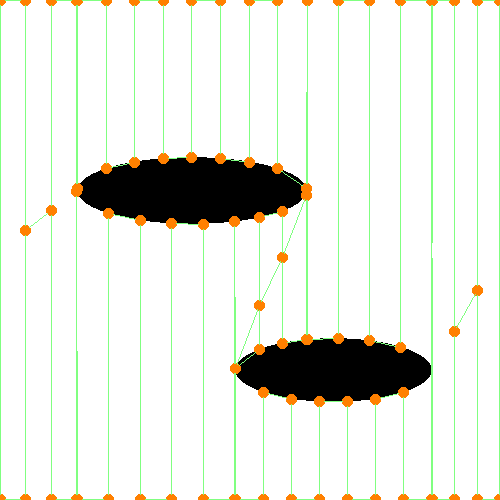
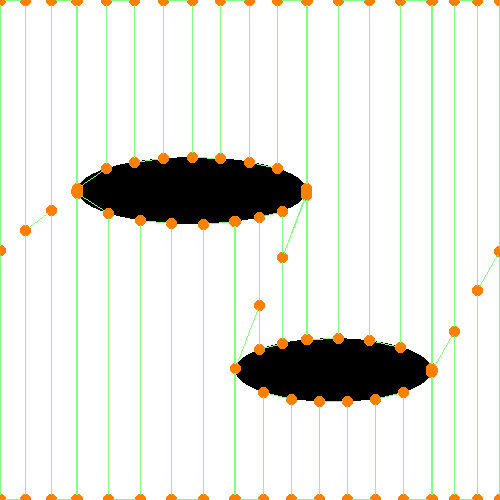
Made WayPoints use tour ordering.

diff --git a/WayPoints_libs/src/WayPoints.cpp b/WayPoints_libs/src/WayPoints.cpp
@@ -51,7 +51,9 @@ WayPoints::WayPoints(RegionData& data, ReebGraph& graph,
     cerr << "Start Genpath\n";
 #endif 
 
-    genPath_All(data, graph, wayPoints, desiredAltitudeM);
+    boost::optional<std::list<Edge> > tour(eulerCycle);
+    genPath_All(data, graph, wayPoints, desiredAltitudeM, -1,
+            ReebGraph::nullEdge(), tour);
 
 #ifdef DEBUG
     cerr << "End\n";
@@ -320,9 +322,9 @@ void WayPoints::convertTourToReebGraph(std::list<ReebEdge> &tour,
             << "), color: " << edge.color << ")\n";
 #endif 
 
-        nvf = dest.addVertex(rvf.x, rvf.y1, rvf.y2, rvf.color);
         nvs = dest.addVertex(rvs.x, rvs.y1, rvs.y2, rvs.color);
-#ifdef MAKE_CONTIN
+        nvf = dest.addVertex(rvf.x, rvf.y1, rvf.y2, rvf.color);
+#ifndef AFRL_CONTIN
         if (first) {
             addedEdge = dest.addEdge(nvs, nvf, edge.color);
             rvs_prev = rvs;
@@ -336,9 +338,15 @@ void WayPoints::convertTourToReebGraph(std::list<ReebEdge> &tour,
             rvs_prev = rvf;
         }
 #else
-        addedEdge = dest.addEdge(nvf, nvs, edge.color);
+        if (first) {
+            addedEdge = dest.addEdge(nvs, nvf, edge.color);
+            first = false;
+        } else {
+            addedEdge = dest.addEdge(nvf, nvs, edge.color);
+        }
 #endif
         addedReebEdge = &(dest.getEProp(addedEdge));
+        addedReebEdge->Eid = edge.Eid;
         addedReebEdge->topBoundary = edge.topBoundary;
         addedReebEdge->bottomBoundary = edge.bottomBoundary;
     }
@@ -353,9 +361,12 @@ void WayPoints::convertTourToReebGraph(std::list<ReebEdge> &tour,
 **/
 void WayPoints::genPath_All(RegionData& data, ReebGraph& graph,
         std::vector<Point2D>& buffer, double altitude, int firstVertexID,
-        Edge firstEdge)
+        Edge firstEdge, boost::optional<std::list<Edge> > tour)
     throw (const std::string&) 
 {
+    bool pickClosest = !tour;
+    std::list<Edge>::iterator itTour, itTourEnd;
+
     Point2D _lastPoint;
     Out_Edge_Iter oi, oi_end;
     Vertex _currVertex;
@@ -383,7 +394,17 @@ void WayPoints::genPath_All(RegionData& data, ReebGraph& graph,
     }
 
 
-    Edge _currEdge = (firstEdge==ReebGraph::nullEdge() ? *oi : firstEdge);
+    Edge _currEdge;
+    if (pickClosest) {
+        _currEdge = (firstEdge == ReebGraph::nullEdge() ? *oi : firstEdge);
+    } else {
+        itTour = tour->begin();
+        itTourEnd = tour->end();
+        if (itTour == itTourEnd) {
+            return;
+        }
+        _currEdge = (firstEdge==ReebGraph::nullEdge() ? *itTour++ : firstEdge);
+    }
     Edge _closestEdge = ReebGraph::nullEdge();
     Vertex _closestVertex = ReebGraph::nullVertex();
     unsigned int _numCellsCovered = 0;
@@ -422,60 +443,75 @@ void WayPoints::genPath_All(RegionData& data, ReebGraph& graph,
         _closestVertex = ReebGraph::nullVertex();
         minDistSqrd = numeric_limits<double>::max();
 
-        for(tie(ei, ei_end) = graph.getEdges(); ei != ei_end; ei++)
-        {
-            // Only want non-visited edges
-            if (graph.getEProp(*ei).color != 0) 
+        if (pickClosest) {
+
+            // OLD EDGE SELECTION
+
+            for(tie(ei, ei_end) = graph.getEdges(); ei != ei_end; ei++)
             {
-                continue;
+                // Only want non-visited edges
+                if (graph.getEProp(*ei).color != 0) 
+                {
+                    continue;
+                }
+
+                tie(_v1,_v2) = graph.getEndNodes(*ei);
+
+                if(graph.getVProp(_v1).x > graph.getVProp(_v2).x)
+                {
+                    swap(_v1,_v2);
+                }
+
+                // Scan for closest point on bottom boundary of edge
+                _c1 = _lastPoint.sdist(graph.getEProp(*ei).topBoundary.front());
+                _c2 = _lastPoint.sdist(graph.getEProp(*ei).topBoundary.back());
+
+                currDistSqrd = min(_c1,_c2);
+
+                if(currDistSqrd < minDistSqrd)
+                {
+                    _closestEdge = *ei;
+                    _closestVertex = (_c1<_c2? _v1:_v2);
+                    minDistSqrd = currDistSqrd;
+                    _upDir = false;
+                }
+
+                // Scan for closest point on top boundary of edge
+                _c1 = _lastPoint.sdist(graph.getEProp(*ei).bottomBoundary.front());
+                _c2 = _lastPoint.sdist(graph.getEProp(*ei).bottomBoundary.back());
+
+                currDistSqrd = min(_c1,_c2);
+
+                if(currDistSqrd < minDistSqrd) 
+                {
+                    _closestEdge = *ei;
+                    _closestVertex = (_c1 < _c2 ? _v1 : _v2);
+                    minDistSqrd = currDistSqrd;
+                    _upDir = true;
+                }
+
+                // Sanity check
+                if (_closestEdge == ReebGraph::nullEdge()) 
+                {
+                    throw string("genPath_All() - Closest edge in greedy algorithm"
+                            " found as a null edge");
+                }
+
+                // Update parameters
+                _currEdge = _closestEdge;
+                _currVertex = _closestVertex;
             }
 
-            tie(_v1,_v2) = graph.getEndNodes(*ei);
+        } else {
 
-            if(graph.getVProp(_v1).x > graph.getVProp(_v2).x)
-            {
-                swap(_v1,_v2);
-            }
+            // NEW EDGE SELECTION
 
-            // Scan for closest point on bottom boundary of edge
-            _c1 = _lastPoint.sdist(graph.getEProp(*ei).topBoundary.front());
-            _c2 = _lastPoint.sdist(graph.getEProp(*ei).topBoundary.back());
+            _currEdge = *itTour++;
+            tie(_v1,_v2) = graph.getEndNodes(_currEdge);
+            _currVertex = _v1;
 
-            currDistSqrd = min(_c1,_c2);
-
-            if(currDistSqrd < minDistSqrd)
-            {
-                _closestEdge = *ei;
-                _closestVertex = (_c1<_c2? _v1:_v2);
-                minDistSqrd = currDistSqrd;
-                _upDir = false;
-            }
-
-            // Scan for closest point on top boundary of edge
-            _c1 = _lastPoint.sdist(graph.getEProp(*ei).bottomBoundary.front());
-            _c2 = _lastPoint.sdist(graph.getEProp(*ei).bottomBoundary.back());
-
-            currDistSqrd = min(_c1,_c2);
-
-            if(currDistSqrd < minDistSqrd) 
-            {
-                _closestEdge = *ei;
-                _closestVertex = (_c1 < _c2 ? _v1 : _v2);
-                minDistSqrd = currDistSqrd;
-                _upDir = true;
-            }
-
-            // Sanity check
-            if (_closestEdge == ReebGraph::nullEdge()) 
-            {
-                throw string("genPath_All() - Closest edge in greedy algorithm"
-                        " found as a null edge");
-            }
-
-            // Update parameters
-            _currEdge = _closestEdge;
-            _currVertex = _closestVertex;
         }
+
     }
 
     graph.resetAllEdgeColor();

diff --git a/UseLibs/src/controller.cpp b/UseLibs/src/controller.cpp
@@ -73,6 +73,12 @@ void Controller::run(const std::string& directory, const std::string& image,
     WayPoints way(data, graph, eulerCycle, wayPoints);
 
 #ifdef DEBUG
+    cout << "==================== Original Graph ====================" << endl
+        << graph << endl
+        << "================== End Original Graph ==================" << endl;
+#endif
+
+#ifdef DEBUG
     cout << "----------------- Print Original EulerTour ------------";
     cout << "\n";
     std::list<Edge>::iterator itEC;
@@ -150,7 +156,7 @@ void Controller::run(const std::string& directory, const std::string& image,
         }
         cout << "\n";
         std::cout << "---------------- End (K)CPP Coverage Edges ------------";
-        cout << "\n";
+        cout << "\n\n";
 #endif
 
         //temporary graph that will be used for converting
@@ -162,6 +168,12 @@ void Controller::run(const std::string& directory, const std::string& image,
         way.convertTourToReebGraph(t1, m_kcpp->m_graph, temporaryGraph); 
 
         std::list<Edge> tmpBcCpp = temporaryGraph.getEdgeList();
+
+#ifdef DEBUG
+    cout << "==================== Converted Graph ====================" << endl
+        << graph << endl
+        << "================== End Converted Graph ==================" << endl;
+#endif
 
 #ifdef DEBUG
         std::cout << "---------------- Converted Coverage Edges ------------";

diff --git a/WayPoints_libs/include/WayPoints.h b/WayPoints_libs/include/WayPoints.h
@@ -42,7 +42,8 @@ public:
     /// Returns the greedy version starting from a random vertex
     void genPath_All(RegionData& data, ReebGraph& graph,
             std::vector<Point2D>& buffer, double altitude,
-            int start_vertex = -1, Edge firstEdge = ReebGraph::nullEdge())
+            int start_vertex = -1, Edge firstEdge = ReebGraph::nullEdge(),
+            boost::optional<std::list<Edge> > tour = boost::optional<std::list<Edge> >())
         throw (const std::string&);
 
     static std::pair<Vertex, bool> genPath_SeedSpreader(ReebGraph& g,
